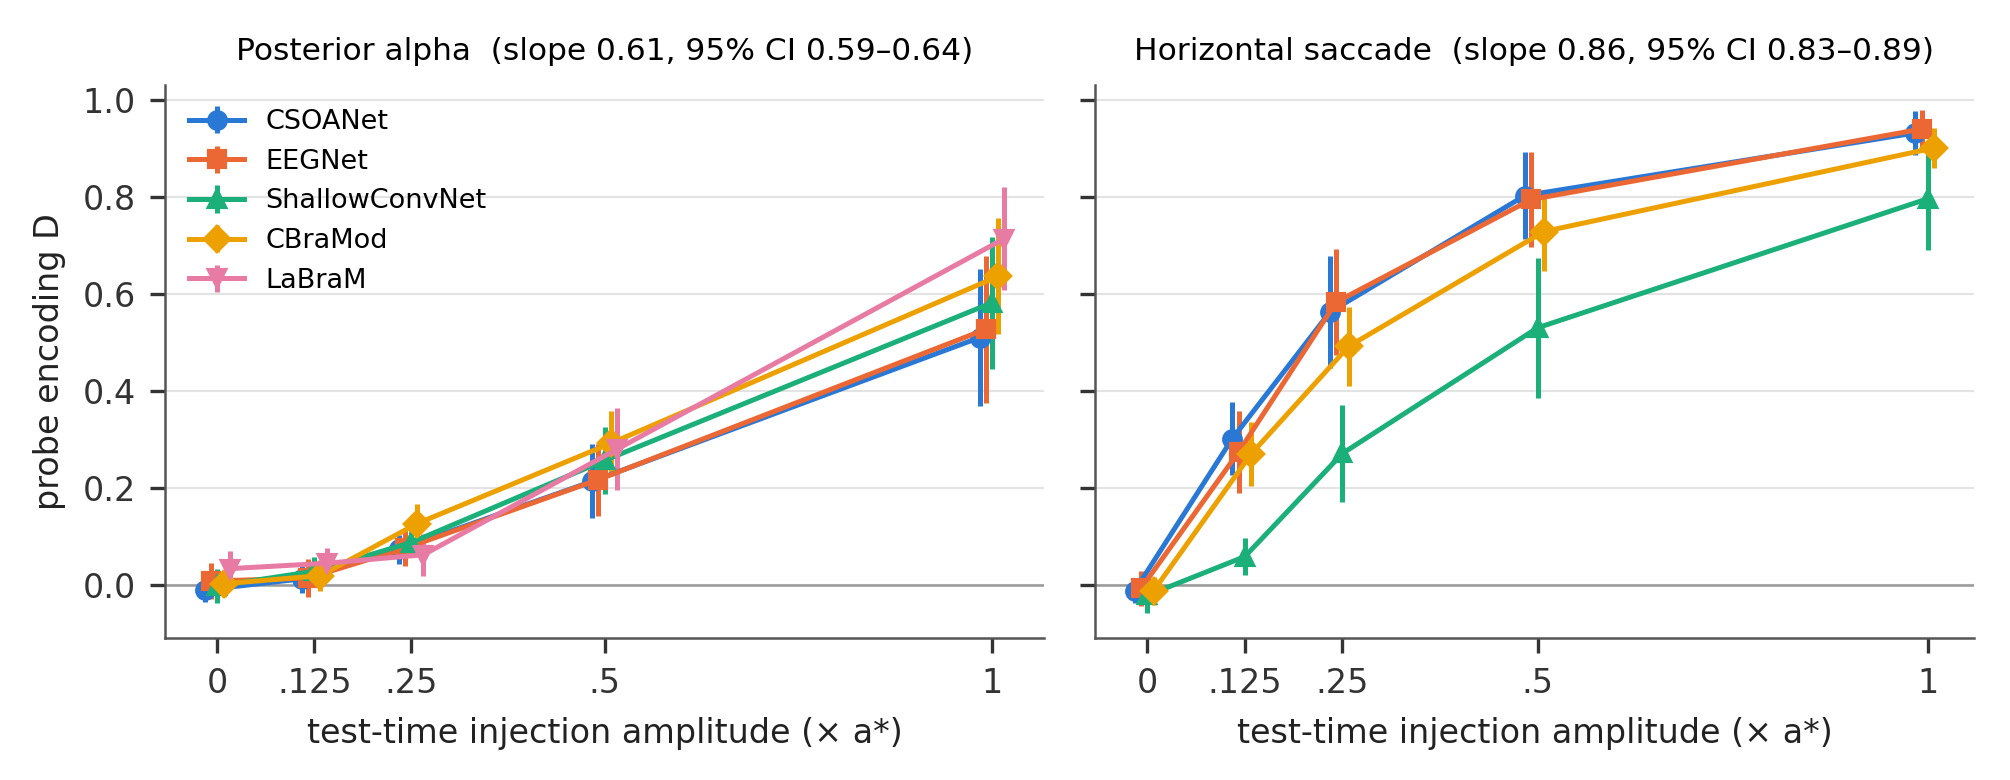
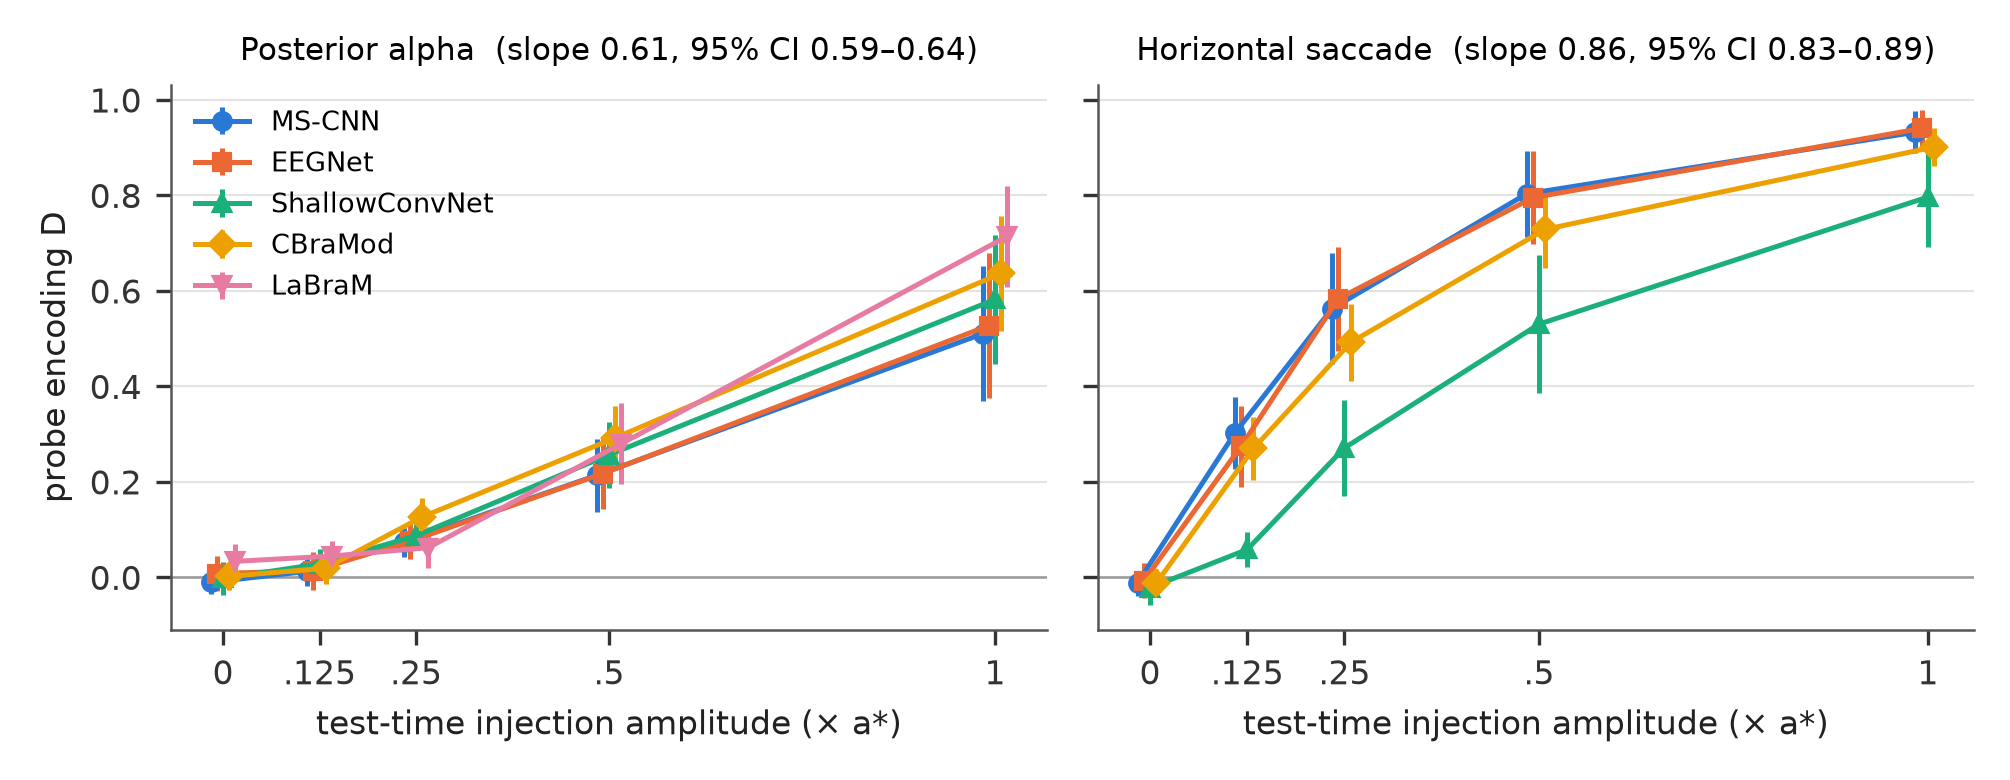
Redesign figure 1; name the csoanet model MS-CNN in figures; add eye figure
- figure 1 redrawn as a three-column flow chart (generate / train and measure
  truth / test the audits); text no longer overflows its boxes
- figure legends call the `csoanet` model MS-CNN, matching the manuscript
  (it reproduces only the multi-scale front end of CSOANet)
- the post hoc eye-movement figure (manuscript figure 6) is now generated by
  make_figures.py; minor label fixes in figures 3 and 5
- README: manuscript title updated

Claude-Session: https://claude.ai/code/session_019P7yZc6Mf7WJE41ZQ4qkMq

diff --git a/scripts/make_figures.py b/scripts/make_figures.py
@@ -2,6 +2,7 @@ import json, numpy as np, pandas as pd, matplotlib
 matplotlib.use('Agg')
 import matplotlib.pyplot as plt
 from matplotlib.patches import FancyBboxPatch
+# File -> manuscript figure: fig1-fig5 -> figures 1-5, fig_eye_posthoc -> figure 6, fig6 -> figure 7.
 R='results/'
 O='figures/'
 plt.rcParams.update({'font.family':'DejaVu Sans','font.size':8,'axes.spines.top':False,'axes.spines.right':False,
@@ -9,28 +10,93 @@ plt.rcParams.update({'font.family':'DejaVu Sans','font.size':8,'axes.spines.top'
     'grid.color':'#e3e3e3','grid.linewidth':0.5,'legend.frameon':False,'savefig.dpi':300})
 COL={'csoanet':'#2a78d6','eegnet':'#eb6834','shallow':'#1baf7a','cbramod':'#eda100','labram':'#e87ba4'}
 MK={'csoanet':'o','eegnet':'s','shallow':'^','cbramod':'D','labram':'v'}
-NAME={'csoanet':'CSOANet','eegnet':'EEGNet','shallow':'ShallowConvNet','cbramod':'CBraMod','labram':'LaBraM'}
+NAME={'csoanet':'MS-CNN','eegnet':'EEGNet','shallow':'ShallowConvNet','cbramod':'CBraMod','labram':'LaBraM'}
 ORDER=['csoanet','eegnet','shallow','cbramod','labram']
 W=6.7
 
-# ---------- Figure 1: design schematic
-fig,ax=plt.subplots(figsize=(W,2.9)); ax.axis('off'); ax.set_xlim(0,100); ax.set_ylim(0,44)
-def box(x,y,w,h,t,fc='#f3f3f1'):
-    ax.add_patch(FancyBboxPatch((x,y),w,h,boxstyle='round,pad=0.3,rounding_size=1.0',fc=fc,ec='#777',lw=0.6))
-    ax.text(x+w/2,y+h/2,t,ha='center',va='center',fontsize=5.8,linespacing=1.25)
-def arr(x1,y1,x2,y2): ax.annotate('',(x2,y2),(x1,y1),arrowprops=dict(arrowstyle='->',lw=0.7,color='#555'))
-box(0.5,29,21,13,'Real resting EEG\n(PhysioNet T0 windows)\n+ random pseudo-labels y')
-box(0.5,2,21,22,'Injection, per subject\ntask: mu component,\ngain 1 ∓ s/2\nalpha: EC−EO component, a·Δref\nsaccade: step + spike, a·149 µV\ncoupling P(z = 1 | y) = p')
-arr(11,29,11,24.6)
-box(26,14,19,16,'Train decoders\n(4 core + LaBraM)\np ∈ {none, .5, .75, .9, 1}\nfactorial s × a at p = .9')
-arr(22,13,26,19)
-box(49.5,29,21,13,'Paired test sets\nmatched / neutral / reversed\n(same windows, same y)')
-box(49.5,2,21,22,'Audit metrics\nencoding: probe D\nreliance: LEACE ΔBA_keep,\nSRI, HEOG regression,\nIG share / norm-abs')
-arr(45.5,26,49.5,33); arr(45.5,18,49.5,13)
-box(75,29,24.5,13,'Ground truth\nΔBA_neu =\nBA(matched) − BA(neutral)',fc='#e8f0fb')
-box(75,2,24.5,22,'Validity test (H1–H3r):\nmetric vs ground truth\nacross cells, seeds, subjects\n\nvalidated metrics →\nreal motor imagery (H4, H5)',fc='#e8f0fb')
-arr(71,35.5,75,35.5); arr(71,13,75,13); arr(87,29,87,24.6)
-fig.savefig(O+'fig1.png',bbox_inches='tight'); plt.close()
+# ---------- Figure 1: design schematic (three columns x three aligned rows; units = inches)
+fig = plt.figure(figsize=(W, 3.05)); ax = fig.add_axes([0, 0, 1, 1]); ax.axis('off'); ax.set_xlim(0, W); ax.set_ylim(0, 3.05)
+INK = '#222222'; SUB = '#4a4a4a'; EDGE = '#9a9a9a'
+NEUTRAL = '#f4f4f2'; ACCENT = '#2a78d6'; ACCENT_BG = '#e7f0fb'; ARROW = '#6b6b6b'
+FT, FB = 7.0, 6.2          # title / body font sizes
+
+
+def box(x, y, w, h, title, body='', fc=NEUTRAL, ec=EDGE, tc=INK):
+    ax.add_patch(FancyBboxPatch((x, y), w, h, boxstyle='round,pad=0,rounding_size=0.06',
+                                fc=fc, ec=ec, lw=0.7))
+    ax.text(x + 0.09, y + h - 0.09, title, ha='left', va='top', fontsize=FT, fontweight='bold', color=tc)
+    if body:
+        ax.text(x + 0.09, y + h - 0.29, body, ha='left', va='top', fontsize=FB, color=SUB, linespacing=1.38)
+
+
+def arrow(x1, y1, x2, y2, color=ARROW):
+    ax.annotate('', (x2, y2), (x1, y1),
+                arrowprops=dict(arrowstyle='-|>,head_length=0.35,head_width=0.18', lw=0.9, color=color,
+                                shrinkA=0, shrinkB=0))
+
+
+def plus(x, y):
+    ax.text(x, y, '+', ha='center', va='center', fontsize=9, color=ARROW, fontweight='bold')
+
+
+# column geometry: three columns x three aligned rows
+CW = 1.96; GAP = 0.33
+X = [0.05, 0.05 + CW + GAP, 0.05 + 2 * (CW + GAP)]
+RA, RB, RC = (1.92, 0.72), (0.98, 0.78), (0.04, 0.78)   # (y, h)
+TOP = RA[0] + RA[1]
+heads = ['1  Generate data', '2  Train and measure truth', '3  Test the audits']
+for x, t in zip(X, heads):
+    ax.text(x, TOP + 0.24, t, fontsize=7.8, fontweight='bold', color=INK, va='center')
+    ax.plot([x, x + CW], [TOP + 0.1, TOP + 0.1], color=INK, lw=0.8)
+
+# ---- column 1: generator
+x = X[0]
+box(x, RA[0], CW, RA[1], 'Real resting background',
+    'PhysioNet rest (T0) windows, 3 s\nrandom balanced pseudo-label y')
+plus(x + CW / 2, RA[0] - 0.08)
+box(x, RB[0], CW, RB[1], 'Task signal',
+    "subject's own mu component (GED)\ngain 1 − s/2 (y = 1), 1 + s/2 (y = 0)")
+plus(x + CW / 2, RB[0] - 0.08)
+box(x, RC[0], CW, RC[1], 'Confound, injected when z = 1',
+    'arm 1: posterior alpha, + a·Δref\narm 2: horizontal saccade, a·149 µV')
+ax.text(x + 0.09, RC[0] + 0.1, 'label coupling:  p = P(z = 1 | y = 1)',
+        fontsize=FB, color=ACCENT, fontweight='bold', va='bottom')
+
+# ---- column 2: training and ground truth
+x = X[1]
+box(x, RA[0], CW, RA[1], 'Train decoders',
+    'p ∈ {none, .5, .75, .9, 1}\ns × a factorial at p = .9, mismatch cells\n4 core models + LaBraM; 358 units')
+box(x, RB[0], CW, RB[1], 'Paired test sets')
+ax.text(x + CW - 0.09, RB[0] + RB[1] - 0.1, 'same windows, same y', fontsize=5.6, color=SUB,
+        ha='right', va='top', style='italic')
+rows = [('matched', 'coupling as in training'), ('neutral', 'z independent of y'), ('reversed', 'coupling inverted')]
+for i, (k, v) in enumerate(rows):
+    yy = RB[0] + RB[1] - 0.37 - i * 0.14
+    ax.text(x + 0.12, yy, k, fontsize=FB, color=INK, fontweight='bold', va='center')
+    ax.text(x + 0.72, yy, v, fontsize=FB, color=SUB, va='center')
+box(x, RC[0], CW, RC[1], 'Ground truth', 'ΔBA_neu = BA(matched) − BA(neutral)\naccuracy that depends on the z–y relation',
+    fc=ACCENT_BG, ec=ACCENT, tc=ACCENT)
+arrow(x + CW / 2, RA[0], x + CW / 2, RB[0] + RB[1])
+arrow(x + CW / 2, RB[0], x + CW / 2, RC[0] + RC[1])
+
+# ---- column 3: audits
+x = X[2]
+box(x, RA[0], CW, RA[1], 'Audit metrics',
+    'encoding: probe D\nreliance: erasure ΔBA_keep, SRI,\nHEOG regression ΔBA_reg, IG share')
+box(x, RB[0], CW, RB[1], 'Validity test (H1–H3r)',
+    'metric vs ground truth, cross-fitted,\nacross cells, seeds and subjects',
+    fc=ACCENT_BG, ec=ACCENT, tc=ACCENT)
+box(x, RC[0], CW, RC[1], 'Real motor imagery (H4, H5)',
+    'PhysioNet-MI: natural counterfactual\nwith control models; SHU-MI')
+arrow(x + CW / 2, RA[0], x + CW / 2, RB[0] + RB[1])
+arrow(x + CW / 2, RB[0], x + CW / 2, RC[0] + RC[1])
+
+# ---- between columns
+arrow(X[0] + CW + 0.04, RB[0] + RB[1] / 2, X[1] - 0.04, RA[0] + RA[1] / 2)
+arrow(X[1] + CW + 0.04, RA[0] + RA[1] / 2, X[2] - 0.04, RA[0] + RA[1] / 2)
+arrow(X[1] + CW + 0.04, RC[0] + RC[1] / 2, X[2] - 0.04, RB[0] + RB[1] / 2, color=ACCENT)
+
+fig.savefig(O+'fig1.png'); plt.close()
 
 # ---------- Figure 2: H1 dose-response
 h1=json.load(open(R+'analysis/H1.json'))
@@ -65,7 +131,7 @@ for i,(k,v) in enumerate(rows):
     ys.append((y,f"{'α' if conf=='alpha' else 'sacc.'} · {lab[m]}"+('' if v['confirmatory'] else ' (expl.)')))
 ax.set_yticks([y for y,_ in ys]); ax.set_yticklabels([t for _,t in ys])
 ax.axvline(0.3,color='#c0392b',lw=0.8,ls='--'); ax.axvline(0,color='#999',lw=0.6)
-ax.text(0.3,len(rows)+0.7,'decision bound 0.3',color='#c0392b',fontsize=6.5,ha='center')
+ax.text(0.32,len(rows)+0.7,'decision bound 0.3',color='#c0392b',fontsize=6.5,ha='left')
 ax.set_xlim(-0.55,1.0); ax.set_ylim(0.3,len(rows)+1.1); ax.set_xlabel('cross-fitted pooled within-model correlation with ΔBA_neu (95% CI)')
 ax.grid(axis='x'); fig.tight_layout(); fig.subplots_adjust(right=0.66); fig.savefig(O+'fig3.png'); plt.close()
 
@@ -101,7 +167,7 @@ ax=axs[1]; bc=h4['bias_corrected']
 for i,m in enumerate(core):
     b=bc[m]; ax.plot([b['ci_low'],b['ci_high']],[i,i],color=COL[m],lw=1.6); ax.plot(b['estimate'],i,MK[m],color=COL[m],ms=5)
 ax.set_yticks(range(4)); ax.set_yticklabels([NAME[m] for m in core]); ax.axvline(0,color='#999',lw=0.6)
-ax.set_xlabel('bias-corrected contrast\n(congruent − none), main − control'); ax.set_title(f"H4, {h4['n_eligible']} eligible subjects",fontsize=7.5)
+ax.set_xlabel('bias-corrected contrast\n(main − control)'); ax.set_title(f"H4, {h4['n_eligible']} eligible subjects",fontsize=7.5)
 ax.grid(axis='x'); fig.tight_layout(); fig.savefig(O+'fig5.png'); plt.close()
 
 # ---------- Figure 6: real audit
@@ -116,3 +182,27 @@ for ax,(k,tl) in zip(axs,mets):
 axs[0].set_yticks(range(4)); axs[0].set_yticklabels([NAME[m] for m in core])
 fig.tight_layout(); fig.savefig(O+'fig6.png'); plt.close()
 print('ok')
+
+# ---------- Post hoc eye-movement figure (manuscript figure 6; exploratory)
+o=json.load(open(R+'analysis/posthoc_revision2_real.json'))
+M=['csoanet','eegnet','shallow','cbramod']
+fig,axs=plt.subplots(1,2,figsize=(W,2.6),gridspec_kw={'width_ratios':[1.15,1]})
+ax=axs[0]; xs=np.arange(3)
+for i,m in enumerate(M):
+    off=(i-1.5)*0.05
+    for arm,ls,key in (('main','-','main'),('control','--','ctrl')):
+        v=[o[m][f'{key}_none_t{k}']['est'] for k in range(3)]
+        lo=[o[m][f'{key}_none_t{k}']['ci'][0] for k in range(3)]; hi=[o[m][f'{key}_none_t{k}']['ci'][1] for k in range(3)]
+        ax.errorbar(xs+off,v,yerr=[np.subtract(v,lo),np.subtract(hi,v)],color=COL[m],ls=ls,marker=MK[m],ms=3.5,lw=1,elinewidth=0.6,capsize=0,
+                    mfc=COL[m] if arm=='main' else 'white',label=NAME[m] if arm=='main' else None)
+ax.set_xticks(xs); ax.set_xticklabels(['low','middle','high']); ax.set_xlabel('HEOG deflection towards the cued side (tercile)')
+ax.set_ylabel('Accuracy, trials without detected saccade'); ax.set_title('(a) solid: main model; dashed: control model',fontsize=7.5,loc='left')
+ax.legend(fontsize=6.5,loc='upper left'); ax.grid(axis='y')
+ax=axs[1]; ty=[('congruent','Congruent'),('incongruent','Incongruent'),('none','No saccade')]
+for i,m in enumerate(M):
+    off=(i-1.5)*0.14
+    for j,(k,_) in enumerate(ty):
+        e=o[m][f'gap_{k}']; ax.errorbar(j+off,e['est'],yerr=[[e['est']-e['ci'][0]],[e['ci'][1]-e['est']]],color=COL[m],marker=MK[m],ms=3.5,elinewidth=0.7,capsize=0)
+ax.axhline(0,color='#777',lw=0.6); ax.set_xticks(range(3)); ax.set_xticklabels([t for _,t in ty])
+ax.set_ylabel('Main − control accuracy'); ax.set_title('(b) gain from the HEOG signal by trial type',fontsize=7.5,loc='left'); ax.grid(axis='y')
+fig.tight_layout(); fig.savefig(O+'fig_eye_posthoc.png'); plt.close()

diff --git a/README.md b/README.md
@@ -1,10 +1,10 @@
-# Do physiological shortcut audits work for EEG decoders?
+# Do shortcut audits measure reliance in EEG decoders?
 
 [![DOI](https://zenodo.org/badge/DOI/10.5281/zenodo.22994247.svg)](https://doi.org/10.5281/zenodo.22994247)
 
 Code and unit-level results for
 
-> Yu Gao. *Do Physiological Shortcut Audits Work for EEG Decoders? A Semi-Synthetic Ground-Truth Test with a Natural Counterfactual Anchor.* Manuscript, 2026.
+> Yu Gao. *Do shortcut audits measure reliance in EEG decoders? A preregistered semi-synthetic ground-truth test and a real-data check of eye-movement use.* Manuscript, 2026.
 
 The study was **preregistered on OSF** after the pilot phase and before any confirmatory unit was trained:
 [doi:10.17605/OSF.IO/8Q7N6](https://doi.org/10.17605/OSF.IO/8Q7N6) (project [osf.io/37s6b](https://osf.io/37s6b)).
@@ -38,7 +38,7 @@ scripts/               post-registration summaries, figures and post hoc analyse
   data/                data download / extraction helpers
   archive/             the overnight pilot script as it was run (from the repo root, before scripts/ was reorganised)
 results/               unit-level results (see below)
-figures/               manuscript figures (scripts/make_figures.py)
+figures/               manuscript figures (scripts/make_figures.py; fig_eye_posthoc = figure 6, fig6 = figure 7)
 docs/                  original implementation notes (Chinese, 2026-09-18, pre-pilot; partly superseded)
 ```
 
@@ -50,7 +50,7 @@ Comments in the code refer to sections of the execution log (`PILOT_LOG x.y`) an
 |---|---|---|
 | `eegnet` | EEGNet-8,2 (Lawhern et al., 2018) | |
 | `shallow` | ShallowConvNet (Schirrmeister et al., 2017) | |
-| `csoanet` | compact multi-scale CNN, class `CSOANetPlaceholder` | three temporal branches with ~72 / 200 / 776 ms receptive fields feeding a depthwise-spatial / separable stage (3,510 parameters). It reproduces only this multi-scale property of CSOANet; it is **not** the published CSOANet implementation. It was used unchanged in every experiment, because the code was frozen by hash. |
+| `csoanet` | MS-CNN in the manuscript: compact multi-scale CNN, class `CSOANetPlaceholder` | three temporal branches with ~72 / 200 / 776 ms receptive fields feeding a depthwise-spatial / separable stage (3,510 parameters). It reproduces only this multi-scale property of CSOANet; it is **not** the published CSOANet implementation. It was used unchanged in every experiment, because the code was frozen by hash. |
 | `cbramod` | CBraMod (official repository + weights, official fine-tuning recipe) | |
 | `labram` | LaBraM-base (official repository, commit `c431221e`, bundled checkpoint) | supplementary; excluded from the real PhysioNet audit because EEGMMIDB is in its pretraining corpus |
 
